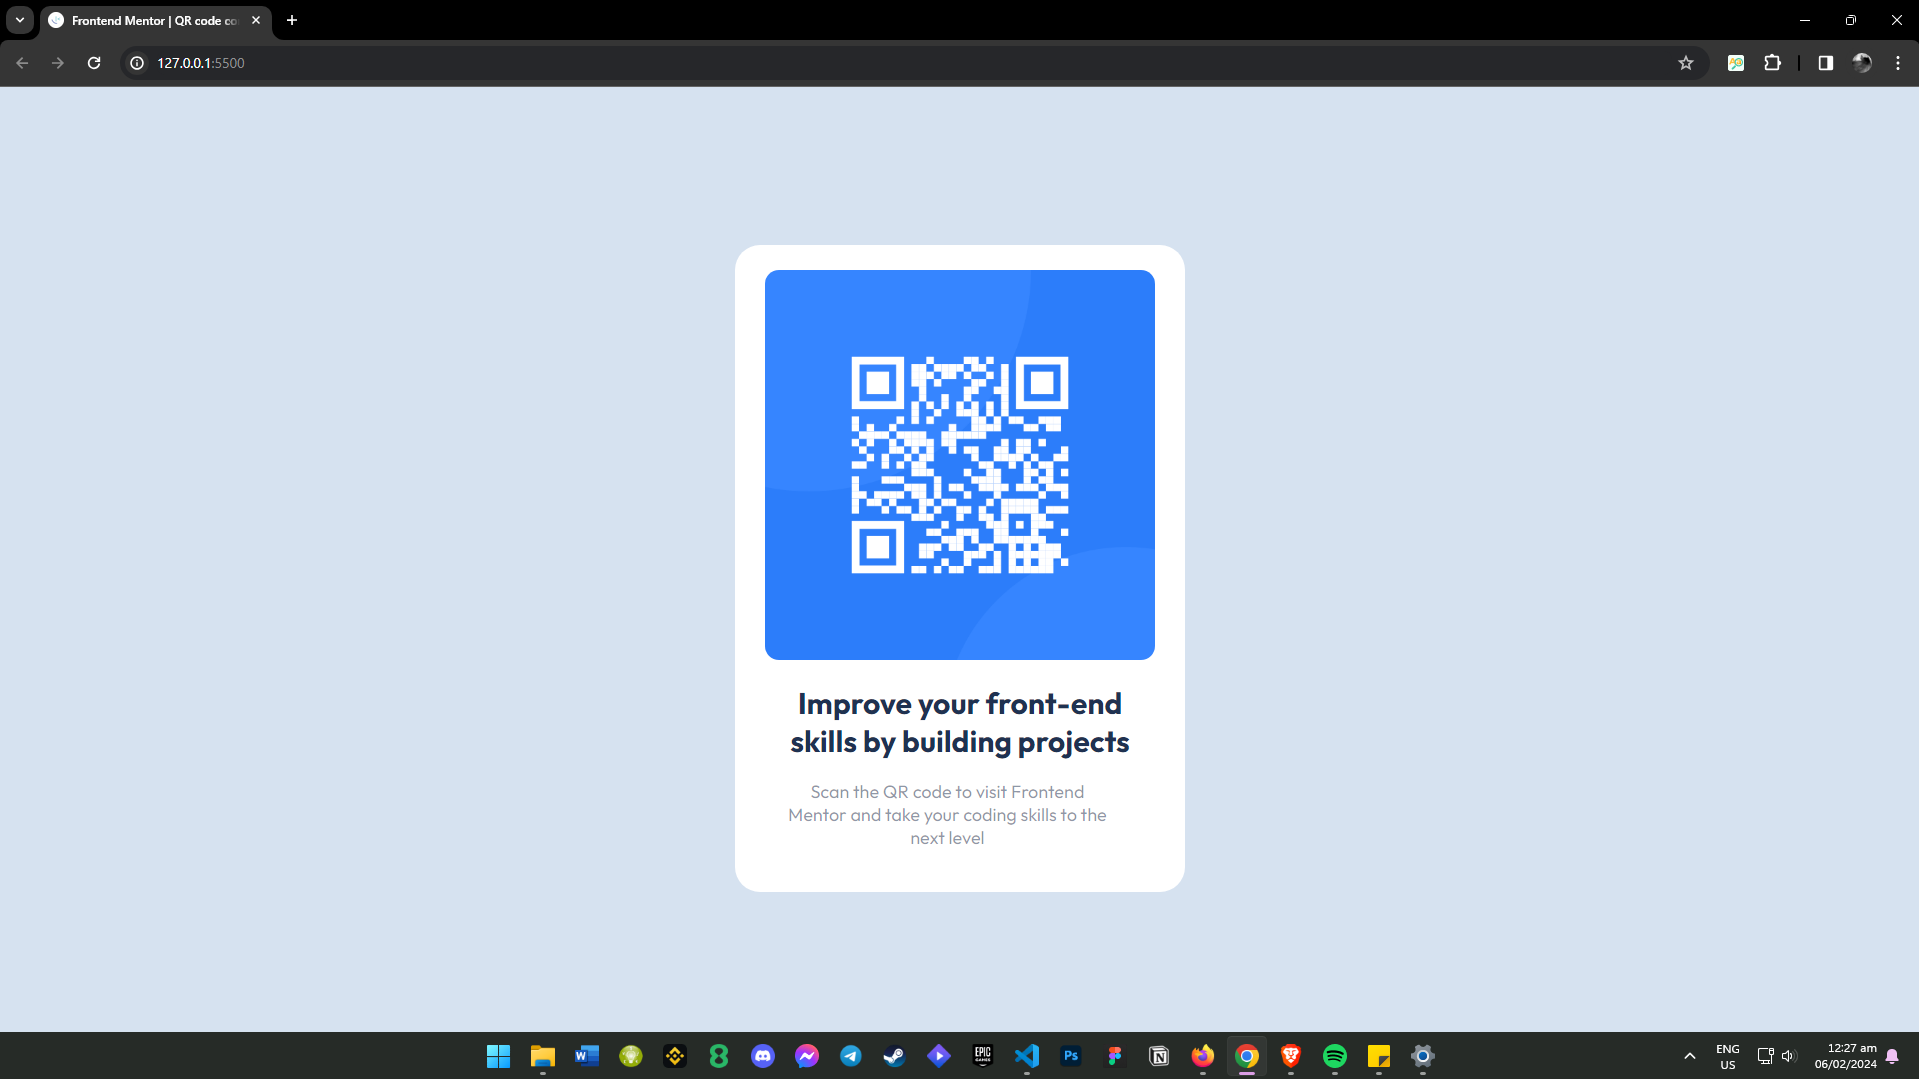
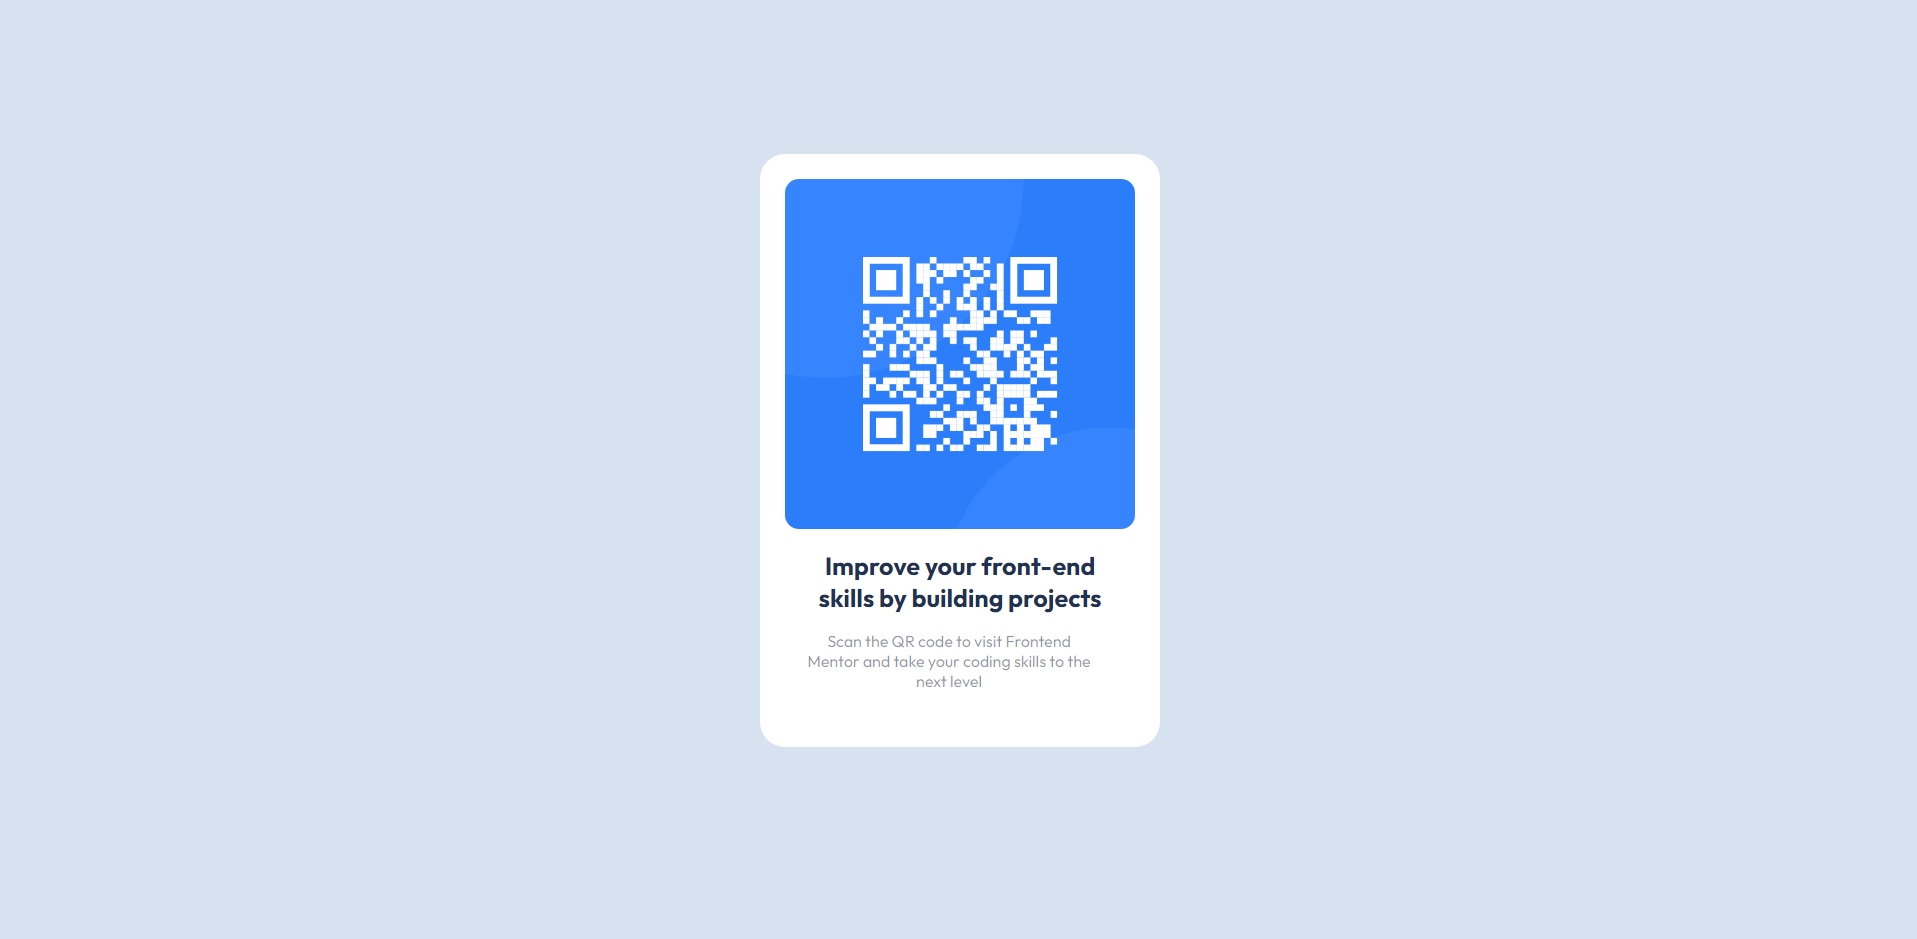
Add files via upload

Changed region(s): [[0.3693, 0.1544, 0.6155, 0.8339], [0.0, 0.0, 1.0, 0.0927], [0.0, 0.9574, 1.0, 1.0]]

diff --git a/style.css b/style.css
@@ -9,12 +9,13 @@ body{
     flex-direction: column;
     align-items: center;
     background-color: hsl(0, 0%, 100%);
-    width: 400px;
+    width: 350px;
     border-radius: 25px;
     place-items: center;
     padding: 25px;
     text-align: center;
     margin-top: 150px;
+    padding-bottom: 40px;
 }
 .text_body {
     width: 90%;
@@ -23,17 +24,17 @@ body{
 .text_body p{
     font-family: 'Outfit', sans-serif;
     opacity: 0.5;
-    font-size: 18px;
+    font-size: 16px;
     width: 93%;
     color: hsl(218, 44%, 22%);
 }
 .h1_title{
     font-family: 'Outfit', sans-serif;
-    font-size: 30px;
+    font-size: 25px;
     color: hsl(218, 44%, 22%);
 }
 .qr_style{
-    width: 390px;
+    width: 350px;
     height: auto;
     border-radius: 14px;
 }

diff --git a/README.md b/README.md
@@ -18,13 +18,13 @@ This is a solution to the [QR code component challenge on Frontend Mentor](https
 
 ### Screenshot
 
-![](./images/qr.png)
+![](./images/qr.png.jpg)
 
 
 ### Links
 
-- Solution URL: [click me](https://github.com/yoyford/QR-code-component)
-- Live Site URL: [click me](https://yoyford.github.io/QR-code-component/)
+- Solution URL: [Add solution URL here](https://your-solution-url.com)
+- Live Site URL: [Add live site URL here](https://your-live-site-url.com)
 
 ## My process
 
